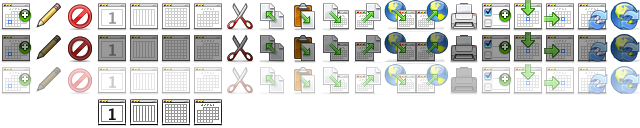
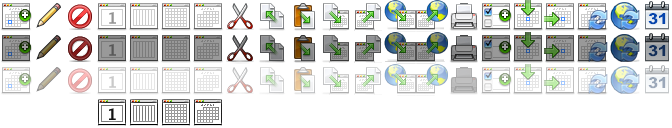
BUG 392669 [Today Pane] Image of toolbarbutton for today pane should be exchanged;r=mickey

diff --git a/calendar/base/themes/winstripe/calendar-toolbar.css b/calendar/base/themes/winstripe/calendar-toolbar.css
@@ -220,15 +220,15 @@ toolbar[iconsize="small"] #calendar-go-to-today-button:hover:active {
  *-------------------------------------------------------------------*/
 
 #calendar-show-todaypane-button {
-        -moz-image-region: rect(0px 408px 24px 384px);
+        -moz-image-region: rect(0px 504px 24px 480px);
 }
 #calendar-show-todaypane-button[disabled="true"],
 #calendar-show-todaypane-button[disabled="true"]:hover,
 #calendar-show-todaypane-button[disabled="true"]:hover:active {
-        -moz-image-region: rect(48px 408px 72px 384px);
+        -moz-image-region: rect(48px 504px 72px 480px);
 }
 #calendar-show-todaypane-button:hover {
-        -moz-image-region: rect(24px 408px 48px 384px);
+        -moz-image-region: rect(24px 504px 48px 480px);
 }
 #calendar-show-todaypane-button:hover:active {
 }
@@ -238,15 +238,15 @@ toolbar[iconsize="small"] #calendar-go-to-today-button:hover:active {
  *-------------------------------------------------------------------*/
 
 toolbar[iconsize="small"] #calendar-show-todaypane-button {
-        -moz-image-region: rect(0px 272px 16px 256px);
+        -moz-image-region: rect(0px 336px 16px 320px);
 }
 toolbar[iconsize="small"] #calendar-show-todaypane-button[disabled="true"],
 toolbar[iconsize="small"] #calendar-show-todaypane-button[disabled="true"]:hover,
 toolbar[iconsize="small"] #calendar-show-todaypane-button[disabled="true"]:hover:active {
-        -moz-image-region: rect(32px 272px 48px 256px);
+        -moz-image-region: rect(32px 336px 48px 320px);
 }
 toolbar[iconsize="small"] #calendar-show-todaypane-button:hover {
-        -moz-image-region: rect(16px 272px 32px 256px);
+        -moz-image-region: rect(16px 336px 32px 320px);
 }
 toolbar[iconsize="small"] #calendar-show-todaypane-button:hover:active {
 }

diff --git a/calendar/base/themes/pinstripe/calendar-toolbar.css b/calendar/base/themes/pinstripe/calendar-toolbar.css
@@ -173,23 +173,23 @@ toolbar[iconsize="small"] #calendar-go-to-today-button[disabled="true"] {
  *-------------------------------------------------------------------*/
 
 #calendar-show-todaypane-button {
-        -moz-image-region: rect(0px 544px 32px 512px);
+        -moz-image-region: rect(0px 672px 32px 640px);
 }
 #calendar-show-todaypane-button:active {
-        -moz-image-region: rect(32px 544px 64px 512px);
+        -moz-image-region: rect(32px 672px 64px 640px);
 }
 #calendar-show-todaypane-button[disabled="true"] {
-        -moz-image-region: rect(64px 544px 96px 512px);
+        -moz-image-region: rect(64px 672px 96px 640px);
 }
 
 toolbar[iconsize="small"] #calendar-show-todaypane-button {
-        -moz-image-region: rect(0px 408px 24px 384px);
+        -moz-image-region: rect(0px 504px 24px 480px);
 }
 toolbar[iconsize="small"] #calendar-show-todaypane-button:active {
-        -moz-image-region: rect(24px 408px 48px 384px);
+        -moz-image-region: rect(24px 504px 48px 480px);
 }
 toolbar[iconsize="small"] #calendar-show-todaypane-button[disabled="true"] {
-        -moz-image-region: rect(48px 408px 72px 384px);
+        -moz-image-region: rect(48px 504px 72px 480x);
 }
 
 
